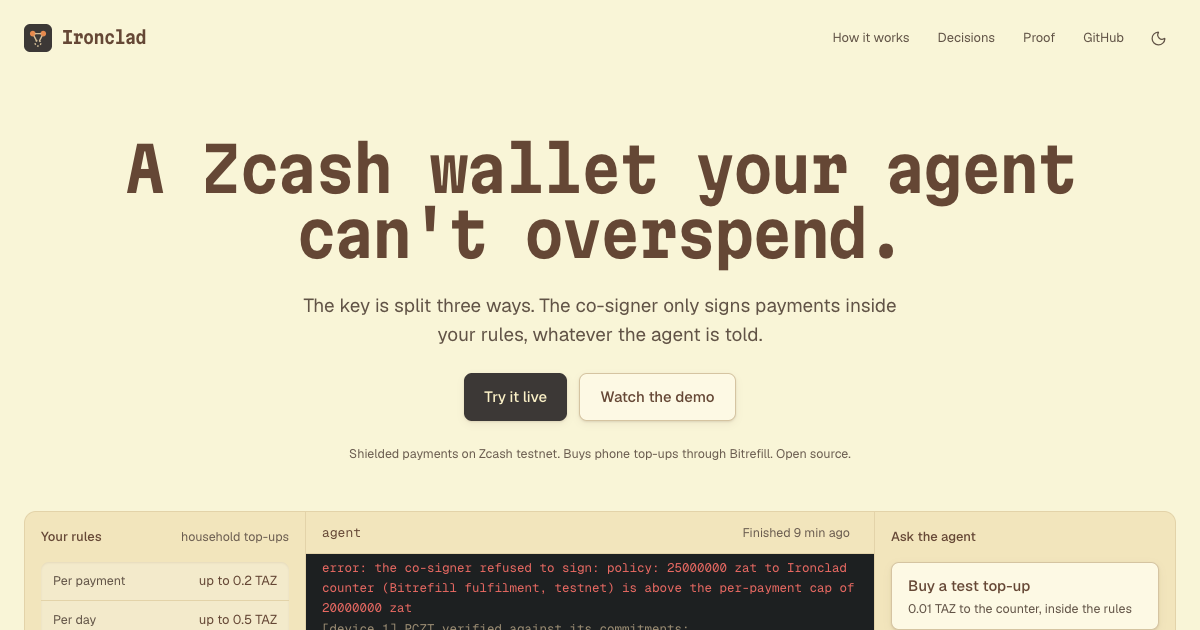
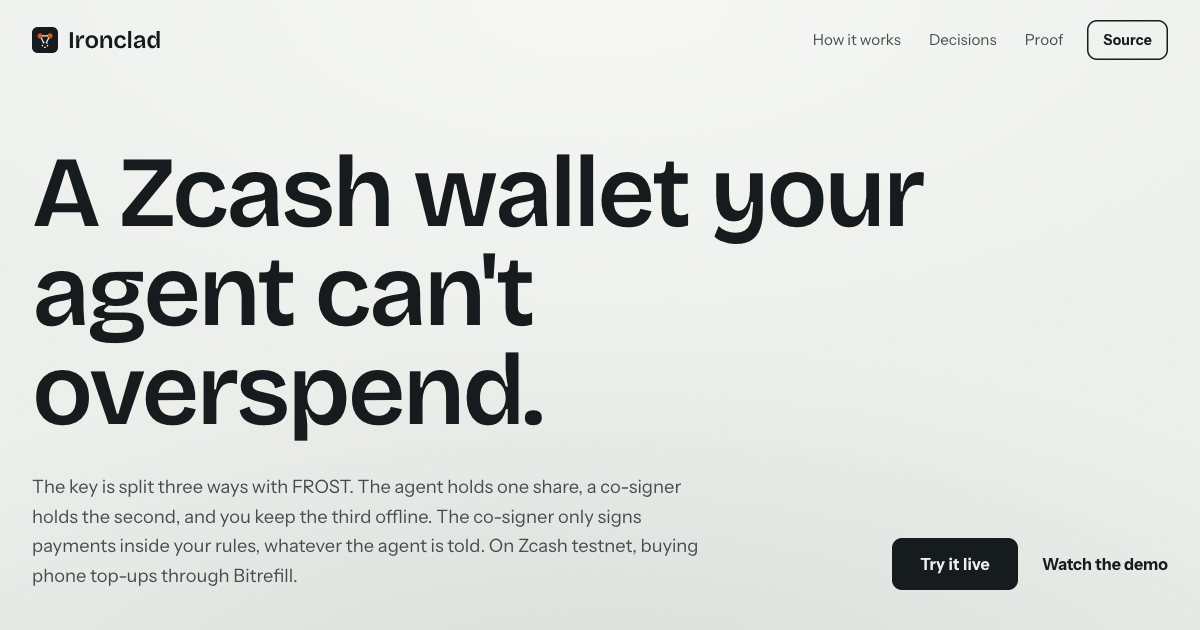
Share image and README for the Stockroom look

diff --git a/README.md b/README.md
@@ -22,7 +22,7 @@ Built at the Free Society Hack, Mumbai, 4 November 2026. Privacy track (themes 1
 
 ## Website
 
-`web/` is the public site: a static Vite and React page with Tailwind v4, using HeyTerm's design tokens. It holds no keys and runs nothing itself. It reads the live policy, the co-signer's ledger, the counter's orders and each demo run from the dashboard API on the VPS (`GET /api/state`, `POST /api/demo` with `"async": true`), so every line in its terminal comes from the real agent.
+`web/` is the public site: a static Vite and React page with Tailwind v4, in Stockroom's design language (concrete paper, blue-black ink, signal orange; Bricolage Grotesque, Instrument Sans, JetBrains Mono). It holds no keys and runs nothing itself. It reads the live policy, the co-signer's ledger, the counter's orders and each demo run from the dashboard API on the VPS (`GET /api/state`, `POST /api/demo` with `"async": true`), so every line in its terminal comes from the real agent.
 
 - Deploy on Vercel from this repo: Root Directory `web`, framework Vite (build `npm run build`, output `dist`). Optional env `VITE_API_BASE`; the default is `https://vps.tail865d46.ts.net:8443`.
 - On the VPS the dashboard serves the same build at its own address (https://vps.tail865d46.ts.net:8443), so the page and the API share one origin: `cd web && npm run build`, copy `web/dist` to the server, restart the dashboard.
